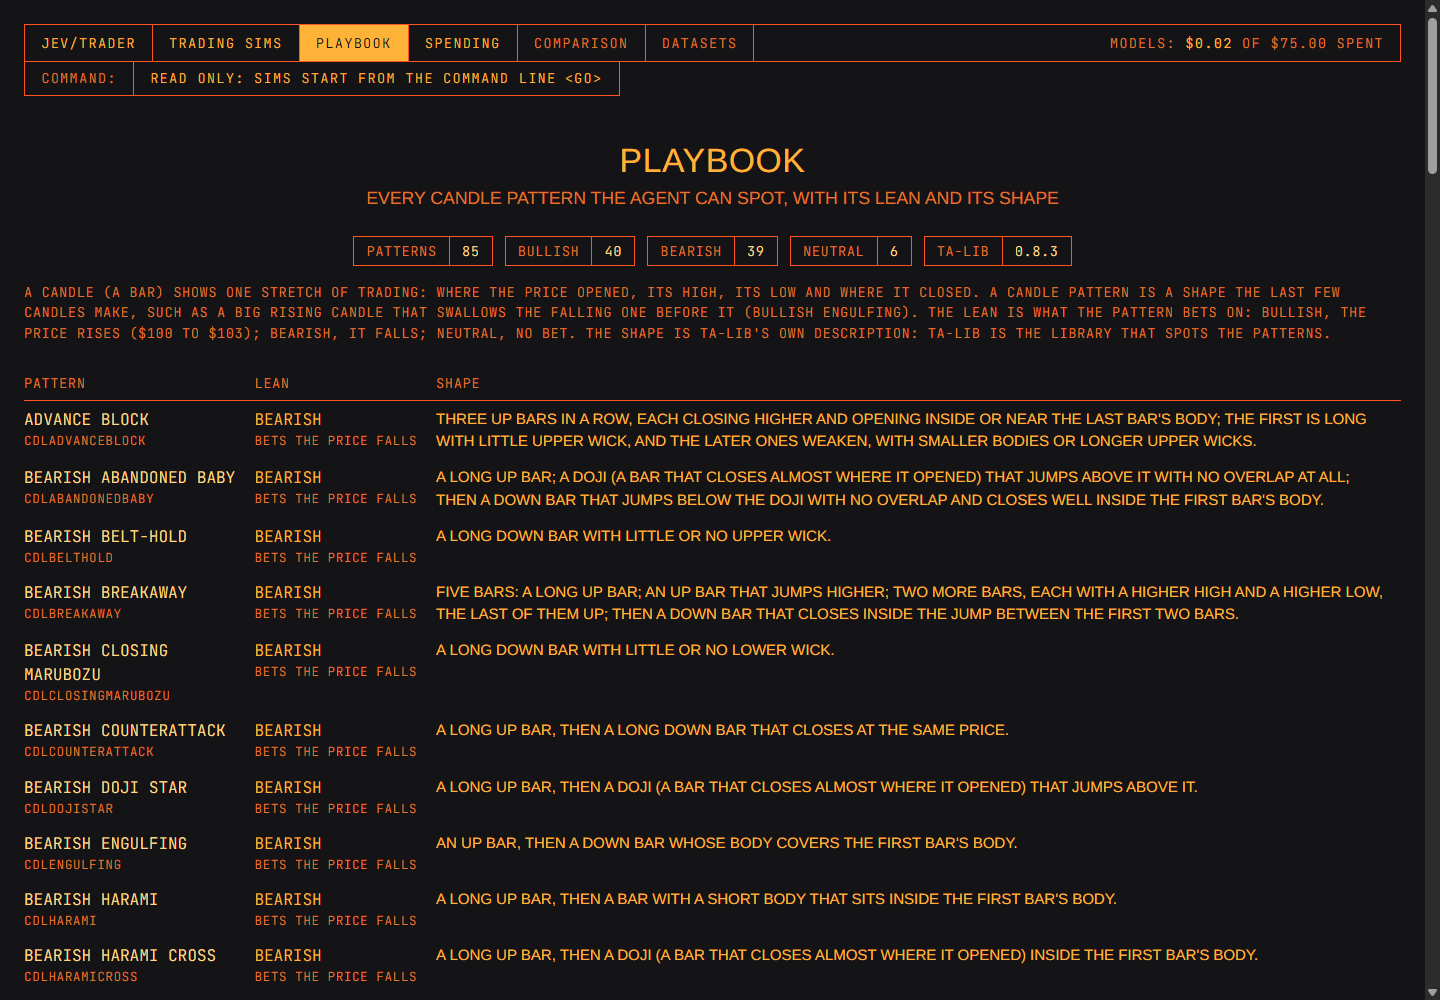
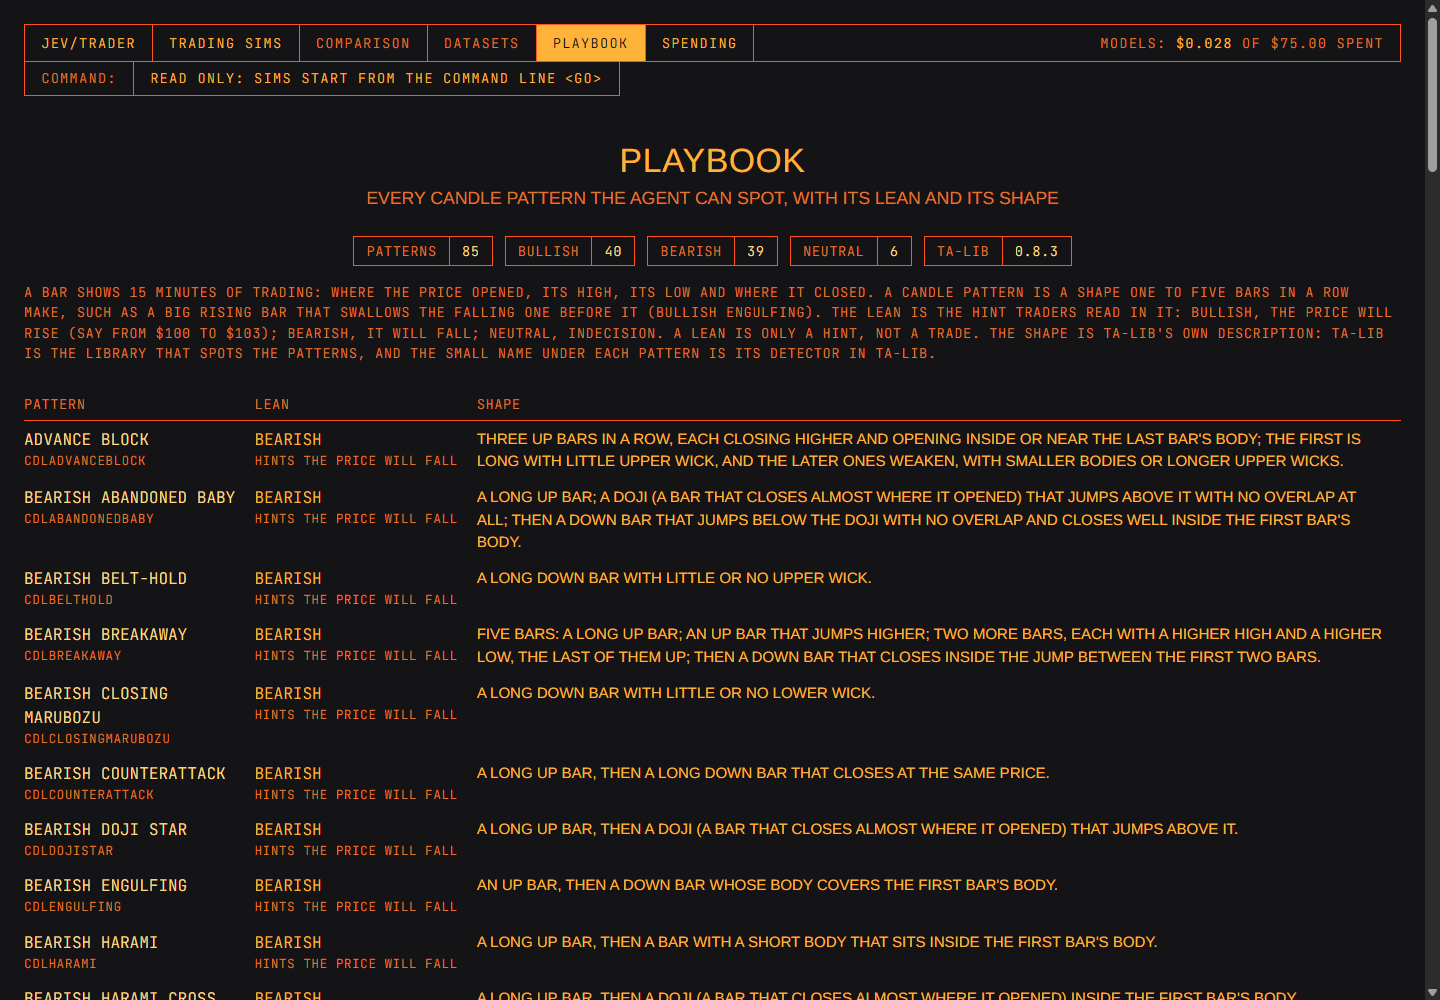
Review fixes: menu order, money held back by sims in progress, glossary wording
Left under the ceiling now subtracts what sims in progress may still spend of their caps, as the checker counts it (spec appendix 8, 8.5). The menu keeps the spec's order; the top bar rounds the total as the Spending screen does. The Playbook screen says bar for the data row and hint for a lean (GLOSSARY). Section headings and the kinds of sim are shared from pieces.

diff --git a/web/src/SpendingScreen.tsx b/web/src/SpendingScreen.tsx
@@ -1,7 +1,6 @@
 import { fetchSpending, type SpendingItem } from "./api/client";
 import { dollarsAndCents, modelDollars } from "./format";
-import { ErrorBox, KeyFigure } from "./pieces";
-import { KINDS } from "./SimsScreen";
+import { ErrorBox, KeyFigure, KINDS, SectionHeading } from "./pieces";
 import { useRead } from "./useRead";
 
 const GROUPS = [
@@ -39,18 +38,12 @@ function Group({ n, title, says, items }: { n: number; title: string; says: stri
     <tbody>
       <tr>
         <td colSpan={COLUMNS.length} className="pt-7 pb-2">
-          <div className="flex items-stretch border-[1.5px] border-rule">
-            <span className="border-r-[1.5px] border-rule px-[1.6ch] py-2 font-mono text-[15px]">
-              {String(n).padStart(2, "0")}
-            </span>
-            <h2 className="flex flex-1 items-center gap-[2ch] px-[2ch] py-2 text-[1.15rem] tracking-[.14em] whitespace-nowrap after:flex-1 after:border-t-[1.5px] after:border-rule after:content-['']">
-              {title}
-            </h2>
-            <span className="self-center pr-[2ch] font-mono text-[13.5px] tracking-wider whitespace-nowrap text-dim">
-              {says && `${says} / `}
-              {modelDollars(total)}
-            </span>
-          </div>
+          <SectionHeading
+            number={n}
+            title={title}
+            says={`${says ? `${says} / ` : ""}${modelDollars(total)}`}
+            space=""
+          />
         </td>
       </tr>
       {items.map((item) => (
@@ -101,7 +94,11 @@ export function SpendingScreen() {
             <KeyFigure
               name="Left under the ceiling"
               figure={dollarsAndCents(spending.left_usd)}
-              says="A sim whose cap could pass it is refused"
+              says={
+                spending.reserved_usd > 0
+                  ? `After the ${modelDollars(spending.reserved_usd)} sims in progress may still spend`
+                  : "No sim in progress holds any back"
+              }
             />
             <KeyFigure name="Paid to Jev" figure={modelDollars(spending.jev_usd)} says="The decision model's answers" />
             <KeyFigure name="Paid to the LLM" figure={modelDollars(spending.llm_usd)} says="Picking past episodes from memory" />
@@ -118,9 +115,10 @@ export function SpendingScreen() {
           </div>
           <p className="mb-6 font-mono text-[13.5px] tracking-wider text-dim">
             The ceiling is the most the whole project may pay for model calls. Each sim also has its own
-            cap, one and a half times its estimate: a sim estimated at $3.00 stops itself at $4.50. A new
-            sim is refused if its cap, added to what is spent and to what running sims may still spend,
-            would pass the ceiling.
+            cap, one and a half times its estimate: a sim estimated at $3.00 stops itself at $4.50. What a
+            sim in progress has not yet spent of its cap is held back: with $10 spent and a sim in
+            progress at $1.50 of its $4.50 cap, $75 - $10 - $3 = $62 is left. A new sim is refused if its
+            cap would pass what is left.
           </p>
 
           {groups.length === 0 && (

diff --git a/web/src/TopBar.tsx b/web/src/TopBar.tsx
@@ -1,15 +1,17 @@
 import type { SpendingTotal } from "./api/client";
-import { dollarsAndCents } from "./format";
+import { dollarsAndCents, modelDollars } from "./format";
 
 export type Screen = "sims" | "playbook" | "spending";
 
-const SCREENS: { screen: Screen; title: string; href: string }[] = [
+// The menu in the spec's order (appendix 7, section 4). A screen with no address is not built
+// yet and is shown dimmed.
+const SCREENS: { screen: Screen | null; title: string; href: string | null }[] = [
   { screen: "sims", title: "Trading sims", href: "#/" },
+  { screen: null, title: "Comparison", href: null },
+  { screen: null, title: "Datasets", href: null },
   { screen: "playbook", title: "Playbook", href: "#/playbook" },
   { screen: "spending", title: "Spending", href: "#/spending" },
 ];
-// Shown dimmed until they are built.
-const LATER_SCREENS = ["Comparison", "Datasets"];
 
 export function TopBar({ spending, screen }: { spending: SpendingTotal | null; screen: Screen }) {
   return (
@@ -17,30 +19,31 @@ export function TopBar({ spending, screen }: { spending: SpendingTotal | null; s
       <div className="flex flex-wrap items-stretch border-[1.5px] border-rule">
         <span className="border-r-[1.5px] border-rule px-[2ch] py-2">Jev/Trader</span>
         <nav className="mr-auto flex flex-wrap" aria-label="Screens">
-          {SCREENS.map((s) => (
-            <a
-              key={s.screen}
-              href={s.href}
-              aria-current={s.screen === screen ? "page" : undefined}
-              className={`border-r-[1.5px] border-rule px-[2ch] py-2 ${s.screen === screen ? "bg-amber text-screen" : "hover:text-pale"}`}
-            >
-              {s.title}
-            </a>
-          ))}
-          {LATER_SCREENS.map((later) => (
-            <span
-              key={later}
-              title="Not built yet"
-              className="border-r-[1.5px] border-rule px-[2ch] py-2 text-dim"
-            >
-              {later}
-            </span>
-          ))}
+          {SCREENS.map((s) =>
+            s.href === null ? (
+              <span
+                key={s.title}
+                title="Not built yet"
+                className="border-r-[1.5px] border-rule px-[2ch] py-2 text-dim"
+              >
+                {s.title}
+              </span>
+            ) : (
+              <a
+                key={s.title}
+                href={s.href}
+                aria-current={s.screen === screen ? "page" : undefined}
+                className={`border-r-[1.5px] border-rule px-[2ch] py-2 ${s.screen === screen ? "bg-amber text-screen" : "hover:text-pale"}`}
+              >
+                {s.title}
+              </a>
+            ),
+          )}
         </nav>
         <a href="#/spending" className="self-center px-[2ch] py-2 text-dim hover:text-pale">
           Models:{" "}
           <b className="font-normal text-amber">
-            {spending ? dollarsAndCents(spending.spent_usd) : "..."}
+            {spending ? modelDollars(spending.spent_usd) : "..."}
           </b>
           {spending && ` of ${dollarsAndCents(spending.ceiling_usd)} spent`}
         </a>

diff --git a/web/src/PlaybookScreen.tsx b/web/src/PlaybookScreen.tsx
@@ -3,9 +3,9 @@ import { ErrorBox, Pair } from "./pieces";
 import { useRead } from "./useRead";
 
 const LEANS: { lean: string; says: string }[] = [
-  { lean: "bullish", says: "bets the price rises" },
-  { lean: "bearish", says: "bets the price falls" },
-  { lean: "neutral", says: "no bet either way" },
+  { lean: "bullish", says: "hints the price will rise" },
+  { lean: "bearish", says: "hints the price will fall" },
+  { lean: "neutral", says: "indecision" },
 ];
 
 const th = "border-b border-rule py-[.4rem] pr-[2ch] text-left font-mono text-[13.5px] font-light tracking-wider text-dim";
@@ -46,11 +46,13 @@ export function PlaybookScreen() {
             <Pair name="TA-Lib" value={playbook.talib_version ?? "--"} />
           </div>
           <p className="mb-6 font-mono text-[13.5px] tracking-wider text-dim">
-            A candle (a bar) shows one stretch of trading: where the price opened, its high, its low and where it
-            closed. A candle pattern is a shape the last few candles make, such as a big rising candle
-            that swallows the falling one before it (bullish engulfing). The lean is what the pattern
-            bets on: bullish, the price rises ($100 to $103); bearish, it falls; neutral, no bet. The
-            shape is TA-Lib's own description: TA-Lib is the library that spots the patterns.
+            A bar shows 15 minutes of trading: where the price opened, its high, its low and where it
+            closed. A candle pattern is a shape one to five bars in a row make, such as a big rising bar
+            that swallows the falling one before it (bullish engulfing). The lean is the hint traders read
+            in it: bullish, the price will rise (say from $100 to $103); bearish, it will fall; neutral,
+            indecision. A lean is only a hint, not a trade. The shape is TA-Lib's own description: TA-Lib
+            is the library that spots the patterns, and the small name under each pattern is its
+            detector in TA-Lib.
           </p>
           <div className="overflow-x-auto">
             <table className="w-full border-separate border-spacing-0">

diff --git a/web/src/SimsScreen.tsx b/web/src/SimsScreen.tsx
@@ -1,14 +1,6 @@
 import type { SimLine } from "./api/client";
 import { day, dollars, dollarsAndCents, signedDollars } from "./format";
-import { statusWords } from "./pieces";
-
-export const KINDS: { kind: string; title: string; says: string }[] = [
-  { kind: "measurement", title: "Measurement", says: "Their results count" },
-  { kind: "build-up", title: "Build-up", says: "Fills the base memory; never counts" },
-  { kind: "free", title: "Free", says: "Days of your choice; never counts" },
-  { kind: "tuning", title: "Tuning", says: "Command-line tool; never counts" },
-  { kind: "practice", title: "Practice", says: "Command-line tool; never counts" },
-];
+import { KINDS, SectionHeading, statusWords } from "./pieces";
 
 const COLUMNS = ["Sim", "Status", "Days", "Account value", "Against holding", "Trades", "Spent / cap"];
 const cell = "py-[.42rem] pr-[2ch] align-top font-mono text-base";
@@ -57,17 +49,7 @@ function Group({ number: n, title, says, sims }: { number: number; title: string
     <tbody>
       <tr>
         <td colSpan={COLUMNS.length} className="pt-7 pb-2">
-          <div className="flex items-stretch border-[1.5px] border-rule">
-            <span className="border-r-[1.5px] border-rule px-[1.6ch] py-2 font-mono text-[15px]">
-              {String(n).padStart(2, "0")}
-            </span>
-            <h2 className="flex flex-1 items-center gap-[2ch] px-[2ch] py-2 text-[1.15rem] tracking-[.14em] whitespace-nowrap after:flex-1 after:border-t-[1.5px] after:border-rule after:content-['']">
-              {title}
-            </h2>
-            <span className="self-center pr-[2ch] font-mono text-[13.5px] tracking-wider whitespace-nowrap text-dim">
-              {says}
-            </span>
-          </div>
+          <SectionHeading number={n} title={title} says={says} space="" />
         </td>
       </tr>
       {sims.map((sim) => (

diff --git a/web/src/pieces.tsx b/web/src/pieces.tsx
@@ -54,9 +54,29 @@ export function KeyFigure({ name, figure, says, first }: { name: string; figure:
   );
 }
 
-export function SectionHeading({ number, title, says }: { number: number; title: string; says: string }) {
+// The kinds of sim, in the order screens list them, each with what it is for.
+export const KINDS: { kind: string; title: string; says: string }[] = [
+  { kind: "measurement", title: "Measurement", says: "Their results count" },
+  { kind: "build-up", title: "Build-up", says: "Fills the base memory; never counts" },
+  { kind: "free", title: "Free", says: "Days of your choice; never counts" },
+  { kind: "tuning", title: "Tuning", says: "Command-line tool; never counts" },
+  { kind: "practice", title: "Practice", says: "Command-line tool; never counts" },
+];
+
+// `space`: the room under it; a heading inside a table row has none.
+export function SectionHeading({
+  number,
+  title,
+  says,
+  space = "mb-4",
+}: {
+  number: number;
+  title: string;
+  says: string;
+  space?: string;
+}) {
   return (
-    <div className="mb-4 flex items-stretch border-[1.5px] border-rule">
+    <div className={`${space} flex items-stretch border-[1.5px] border-rule`}>
       <span className="border-r-[1.5px] border-rule px-[1.6ch] py-2 font-mono text-[15px]">
         {String(number).padStart(2, "0")}
       </span>

diff --git a/web/src/api/schema.d.ts b/web/src/api/schema.d.ts
@@ -562,6 +562,8 @@ export interface components {
             left_usd: number;
             /** Llm Usd */
             llm_usd: number;
+            /** Reserved Usd */
+            reserved_usd: number;
             /** Spent Usd */
             spent_usd: number;
         };

diff --git a/src/jev_trader/api/spending.py b/src/jev_trader/api/spending.py
@@ -1,18 +1,26 @@
 """The Spending screen's one read: real dollars paid to Jev and the LLM against the ceiling, by
 item (spec appendix 7, section 10; appendix 8, sections 8.2 and 8.5).
 
-The spec leaves the items open. They follow the budget's lines (spec appendix 9, section 13):
-one per sim that has made a paid call, grouped by the sim's kind in the sims list's order, then
-one per purpose of the paid calls made outside any sim (the benchmark, saving answers for tests).
+The spec leaves the items open. They follow the lines of the project's cost estimate (spec
+appendix 9, section 13): one per sim that has made a paid call, grouped by the sim's kind in the
+sims list's order, then one per purpose of the paid calls made outside any sim (the benchmark,
+saving answers for tests).
+
+What is left under the ceiling is counted as the checker counts it (8.5): the ceiling, less the
+money already spent, less the unspent part of the cap of every sim in progress. A sim in progress
+is one created or running; the spec leaves the exact rule open (8.15).
 """
 
 from pydantic import BaseModel
 
 from jev_trader.api.sims_list import KIND_ORDER, sim_name
 from jev_trader.api.store import ApiStore
+from jev_trader.sim.store import SimStatus
 
 OUTSIDE_SIMS = "outside sims"
-JEV = "jev"  # the one paid service besides the LLM
+# The two paid services: a call is Jev's when its SERVICE says so, the LLM's otherwise.
+JEV = "jev"
+IN_PROGRESS = (SimStatus.CREATED, SimStatus.RUNNING)
 
 
 class SpendingItem(BaseModel):
@@ -28,13 +36,14 @@ class SpendingItem(BaseModel):
 class Spending(BaseModel):
     spent_usd: float
     ceiling_usd: float
-    left_usd: float  # can go below zero only if spending passed the ceiling
+    reserved_usd: float  # what sims in progress may still spend, up to their caps
+    left_usd: float  # ceiling - spent - reserved; below zero only if spending passed it
     jev_usd: float
     llm_usd: float
     items: list[SpendingItem]
 
 
-def _cents_safe(value: float) -> float:
+def _without_float_noise(value: float) -> float:
     """Sums of floats pick up noise (0.1 + 0.2); six decimals keep every fraction of a cent."""
     return round(value, 6)
 
@@ -52,15 +61,19 @@ def spending(store: ApiStore, ceiling: float) -> Spending:
     def line(key: tuple, item: dict) -> SpendingItem:
         sim_id, purpose = key
         sim = sims.get(sim_id) if sim_id is not None else None
+        if sim_id is None:
+            kind, name = OUTSIDE_SIMS, purpose
+        elif sim is None:
+            kind, name = "unknown", f"Sim {sim_id}"
+        else:
+            kind, name = sim["KIND"], sim_name(sim)
         return SpendingItem(
-            kind=OUTSIDE_SIMS if sim_id is None else (sim or {}).get("KIND", "unknown"),
+            kind=kind,
             sim_id=sim_id,
-            name=purpose
-            if sim_id is None
-            else (sim_name(sim) if sim else f"Sim {sim_id}"),
-            jev_usd=_cents_safe(item["jev_usd"]),
-            llm_usd=_cents_safe(item["llm_usd"]),
-            total_usd=_cents_safe(item["jev_usd"] + item["llm_usd"]),
+            name=name,
+            jev_usd=_without_float_noise(item["jev_usd"]),
+            llm_usd=_without_float_noise(item["llm_usd"]),
+            total_usd=_without_float_noise(item["jev_usd"] + item["llm_usd"]),
             calls=item["calls"],
         )
 
@@ -72,13 +85,20 @@ def spending(store: ApiStore, ceiling: float) -> Spending:
         return (len(KIND_ORDER), line.sim_id, "")
 
     lines = sorted((line(k, v) for k, v in items.items()), key=order)
-    jev = _cents_safe(sum(i["jev_usd"] for i in items.values()))
-    llm = _cents_safe(sum(i["llm_usd"] for i in items.values()))
-    spent = _cents_safe(jev + llm)
+    spent_by_sim = {i.sim_id: i.total_usd for i in lines if i.sim_id is not None}
+    reserved = sum(
+        max(sim["SPENDING_CAP"] - spent_by_sim.get(sim_id, 0.0), 0.0)
+        for sim_id, sim in sims.items()
+        if sim["STATUS"] in IN_PROGRESS and sim.get("SPENDING_CAP") is not None
+    )
+    jev = _without_float_noise(sum(i["jev_usd"] for i in items.values()))
+    llm = _without_float_noise(sum(i["llm_usd"] for i in items.values()))
+    spent = _without_float_noise(jev + llm)
     return Spending(
         spent_usd=spent,
         ceiling_usd=ceiling,
-        left_usd=_cents_safe(ceiling - spent),
+        reserved_usd=_without_float_noise(reserved),
+        left_usd=_without_float_noise(ceiling - spent - reserved),
         jev_usd=jev,
         llm_usd=llm,
         items=lines,

diff --git a/tests/unit/api/test_playbook_and_spending.py b/tests/unit/api/test_playbook_and_spending.py
@@ -135,6 +135,7 @@ def test_spending_has_a_line_per_sim_in_kind_order_then_calls_outside_sims():
     assert answer.json() == {
         "spent_usd": 5.25,
         "ceiling_usd": 75.0,
+        "reserved_usd": 0.0,
         "left_usd": 69.75,
         "jev_usd": 1.75,
         "llm_usd": 3.50,
@@ -170,12 +171,38 @@ def test_spending_has_a_line_per_sim_in_kind_order_then_calls_outside_sims():
     }
 
 
+def test_what_sims_in_progress_may_still_spend_is_not_left_under_the_ceiling():
+    sims = InMemorySimStore()
+    running = add_sim(sims, "free", "memory_off")
+    sims.update(running, STATUS="running", SPENDING_CAP=4.50)
+    paid_call(sims, running, "jev", 1.50)
+    waiting = add_sim(sims, "practice", "memory_off")
+    sims.update(
+        waiting, SPENDING_CAP=0.25
+    )  # created, not started: may still spend it all
+    finished = add_sim(sims, "practice", "memory_off")
+    sims.update(finished, STATUS="finished", SPENDING_CAP=9.00)
+    paid_call(sims, finished, "jev", 8.50)
+    over = add_sim(sims, "practice", "memory_off")
+    sims.update(over, STATUS="running", SPENDING_CAP=0.25)
+    paid_call(sims, over, "jev", 0.30)  # past its cap: may spend nothing more
+
+    answer = client_for(InMemoryApiStore(sims, [])).get("/spending").json()
+
+    assert answer["spent_usd"] == 10.30
+    assert (
+        answer["reserved_usd"] == 3.25
+    )  # $3.00 of the first cap, all $0.25 of the second
+    assert answer["left_usd"] == 61.45  # $75 - $10.30 - $3.25
+
+
 def test_spending_before_any_paid_call_leaves_the_whole_ceiling():
     answer = client_for(InMemoryApiStore(InMemorySimStore(), [])).get("/spending")
 
     assert answer.json() == {
         "spent_usd": 0.0,
         "ceiling_usd": 75.0,
+        "reserved_usd": 0.0,
         "left_usd": 75.0,
         "jev_usd": 0.0,
         "llm_usd": 0.0,
